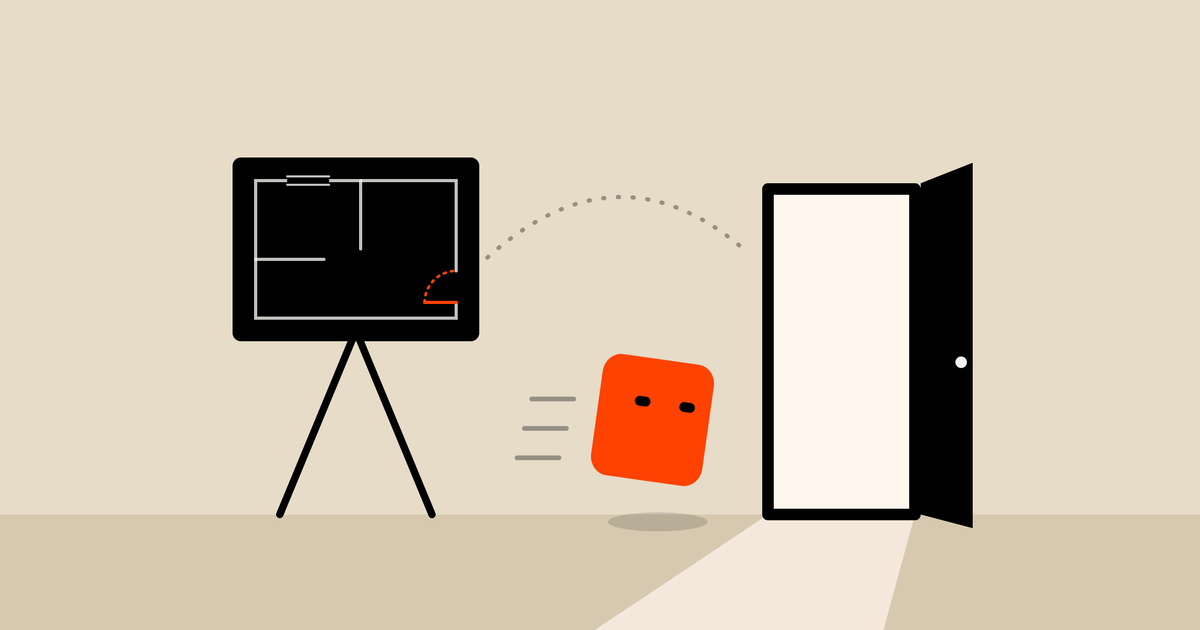
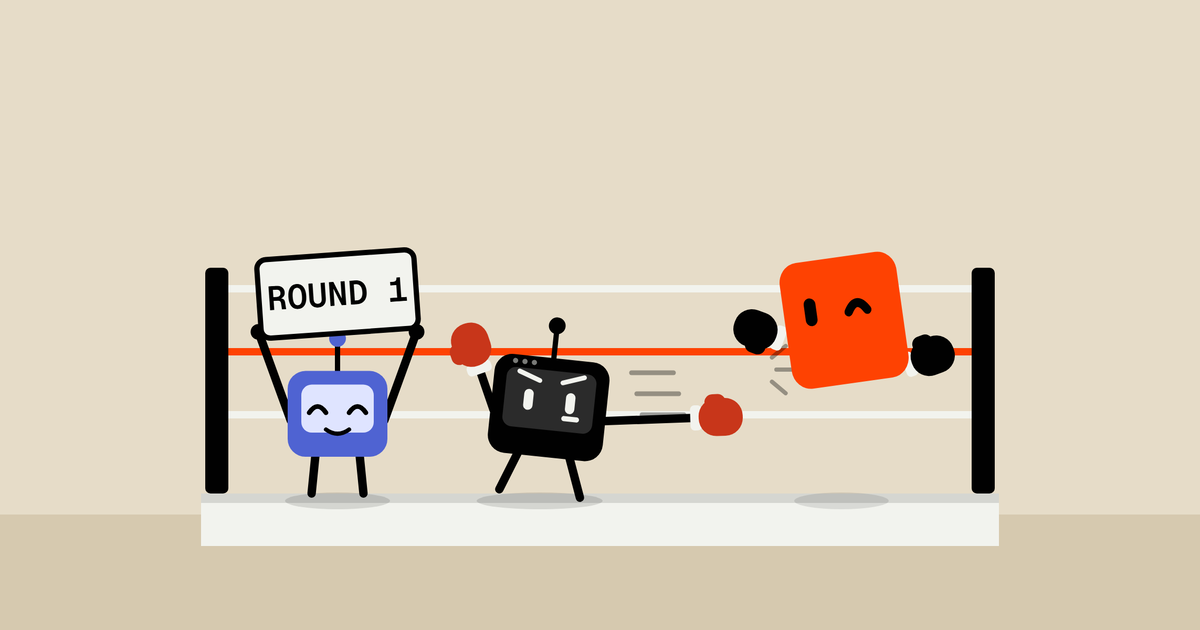
feat: new cover and link preview for the coding-agents article
Rendered from motion/src/covers/coding-agents.tsx, with alt text that
describes the new scene.

Changed region(s): [[0.1542, 0.2413, 0.8325, 1.0]]

diff --git a/lib/article-cover.ts b/lib/article-cover.ts
@@ -13,7 +13,7 @@ const ALT: Record<string, string> = {
   "ai-pentesting-vs-vulnerability-scanning":
     "Dot, the Vulnix character, carries one proven finding on its head while a scanner prints a long receipt of question marks",
   "can-coding-agents-replace-a-pentest":
-    "A blueprint on an easel with its door marked in orange, and Dot, the Vulnix character, hopping toward a real open door",
+    "A friendly sparring match in a boxing ring: a coding-agent robot throws a jab, Dot, the Vulnix character, hops clear of it with a wink, and a second robot holds up a Round 1 card",
   "how-to-validate-a-security-fix":
     "Dot, the Vulnix character, bounces off a brick wall whose crack is sealed in orange, with a 403 tag above",
 };
